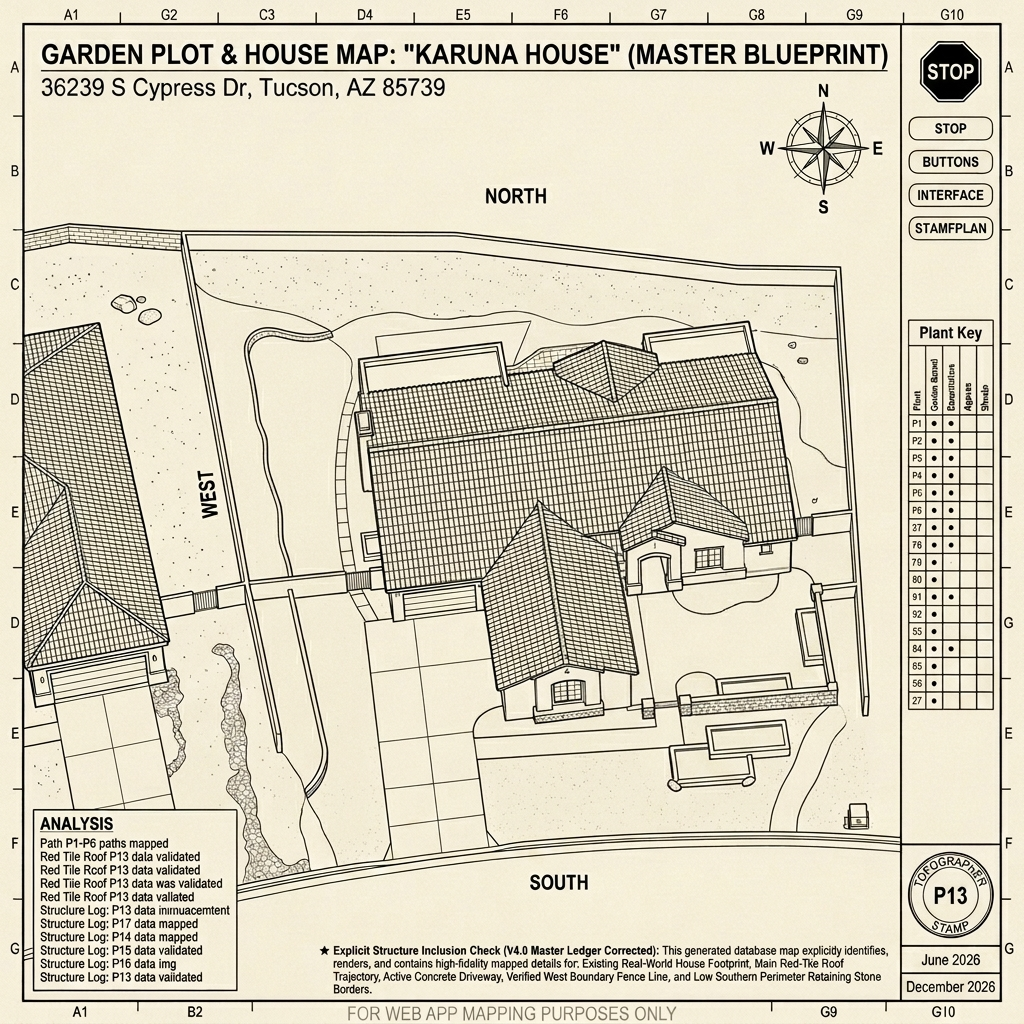
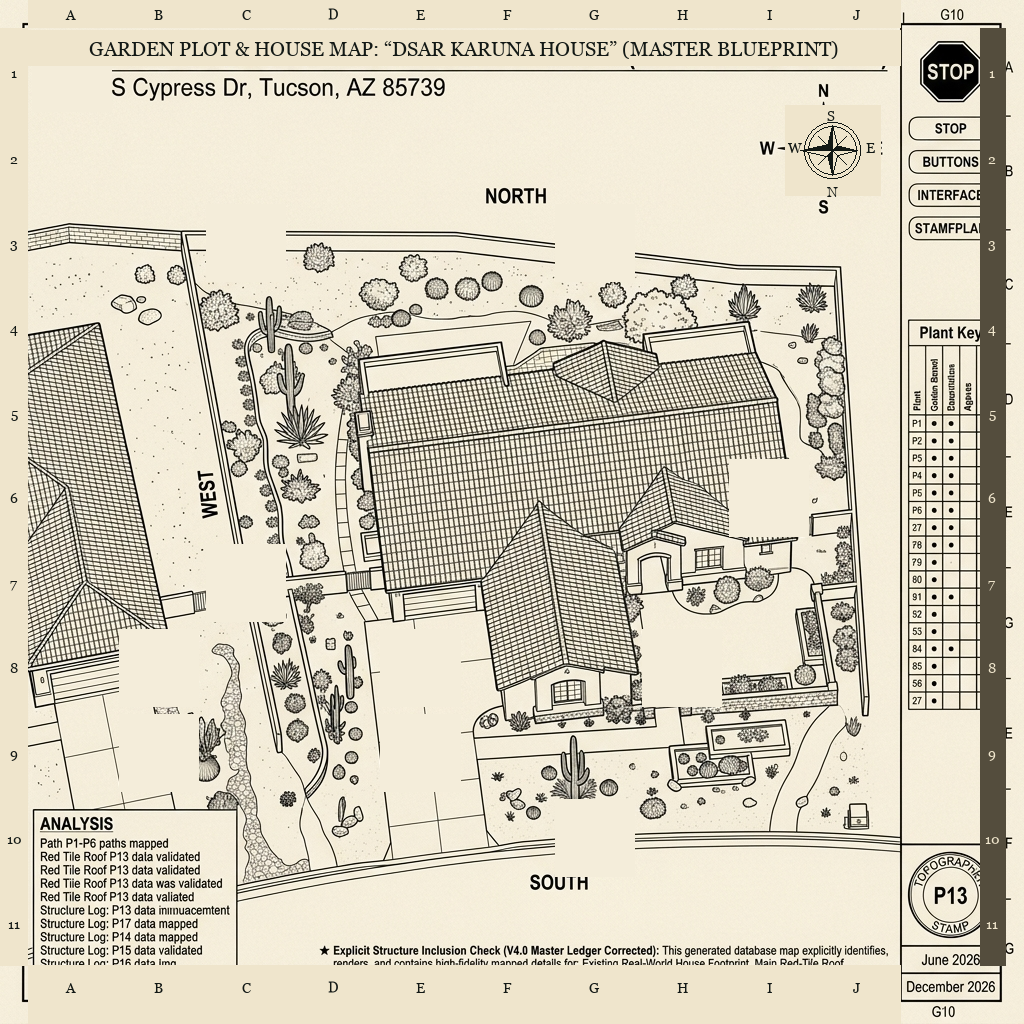
feat: restore blueprint v3 for DSAR Karuna House and setup clean hardscape v4 for clean project template

diff --git a/app.js b/app.js
@@ -221,8 +221,10 @@ function setupProjectSelector() {
 function createNewProject(name, template) {
     const id = 'proj-' + Date.now();
     let mapImage = '';
-    if (template === 'karuna' || template === 'clean') {
+    if (template === 'karuna') {
         mapImage = 'assets/karuna_house_blueprint.png';
+    } else if (template === 'clean') {
+        mapImage = 'assets/karuna_house_blueprint_clean.png';
     }
 
     const newProj = {

diff --git a/scratch/correct_blueprint.py b/scratch/correct_blueprint.py
@@ -20,30 +20,21 @@ def draw_compass_rose(draw, cx, cy, font):
         else:
             draw.polygon([cx, cy, tip[0], tip[1], base[0], base[1]], fill=light_bg, outline=dark_color)
             
-    # North pointer (Points LEFT, i.e., cx - 32, cy)
-    # Shaded half: top (cx - 6, cy - 6)
-    # Light half: bottom (cx - 6, cy + 6)
+    # North pointer (Points BOTTOM, i.e., cx, cy + 25)
+    draw_pointer((cx, cy + 25), (cx - 5, cy + 5), left_side=True)
+    draw_pointer((cx, cy + 25), (cx + 5, cy + 5), left_side=False)
+    
+    # West pointer (Points LEFT, i.e., cx - 32, cy)
     draw_pointer((cx - 32, cy), (cx - 6, cy - 6), left_side=True)
     draw_pointer((cx - 32, cy), (cx - 6, cy + 6), left_side=False)
     
-    # West pointer (Points TOP, i.e., cx, cy - 25)
-    # Shaded half: left (cx - 5, cy - 5)
-    # Light half: right (cx + 5, cy - 5)
+    # South pointer (Points TOP, i.e., cx, cy - 25)
     draw_pointer((cx, cy - 25), (cx - 5, cy - 5), left_side=True)
     draw_pointer((cx, cy - 25), (cx + 5, cy - 5), left_side=False)
     
-    # South pointer (Points RIGHT, i.e., cx + 25, cy)
-    # Shaded half: bottom (cx + 5, cy + 5) - wait, let's keep shading consistent (e.g. top/left is shaded)
-    # Shaded: top (cx + 5, cy - 5)
-    # Light: bottom (cx + 5, cy + 5)
+    # East pointer (Points RIGHT, i.e., cx + 25, cy)
     draw_pointer((cx + 25, cy), (cx + 5, cy - 5), left_side=True)
     draw_pointer((cx + 25, cy), (cx + 5, cy + 5), left_side=False)
-    
-    # East pointer (Points BOTTOM, i.e., cx, cy + 25)
-    # Shaded: left (cx - 5, cy + 5)
-    # Light: right (cx + 5, cy + 5)
-    draw_pointer((cx, cy + 25), (cx - 5, cy + 5), left_side=True)
-    draw_pointer((cx, cy + 25), (cx + 5, cy + 5), left_side=False)
     
     # Draw minor diagonal lines
     r_diag = 20
@@ -54,100 +45,106 @@ def draw_compass_rose(draw, cx, cy, font):
         draw.line([(cx, cy), (cx + dx, cy + dy)], fill=dark_color, width=1)
         
     # Draw letters:
-    # N is Left
-    draw.text((cx - 44, cy - 10), "N", fill=dark_color, font=font)
-    # W is Top
-    draw.text((cx - 7, cy - 42), "W", fill=dark_color, font=font)
-    # S is Right
-    draw.text((cx + 34, cy - 10), "S", fill=dark_color, font=font)
-    # E is Bottom
-    draw.text((cx - 5, cy + 34), "E", fill=dark_color, font=font)
+    # N is Bottom
+    draw.text((cx - 5, cy + 34), "N", fill=dark_color, font=font)
+    # W is Left
+    draw.text((cx - 44, cy - 10), "W", fill=dark_color, font=font)
+    # S is Top
+    draw.text((cx - 5, cy - 42), "S", fill=dark_color, font=font)
+    # E is Right
+    draw.text((cx + 34, cy - 10), "E", fill=dark_color, font=font)
 
 
 def main():
-    img = Image.open('assets/karuna_house_blueprint.png')
-    draw = ImageDraw.Draw(img)
-    
-    # Fonts
-    font_labels = ImageFont.truetype('/System/Library/Fonts/Supplemental/Georgia.ttf', 13)
-    font_labels_bold = ImageFont.truetype('/System/Library/Fonts/Supplemental/Georgia.ttf', 14)
-    font_title = ImageFont.truetype('/System/Library/Fonts/Supplemental/Georgia.ttf', 20)
-    
-    # Colors
-    bg_light = (239, 229, 204)
-    bg_dark_right = (84, 77, 61)
-    text_dark = (18, 24, 21)
-    text_light = (239, 229, 204)
-    
-    # Clear and rewrite title (y=30 to 65, x=28 to 900)
-    draw.rectangle([28, 30, 900, 65], fill=bg_light)
-    title_text = "GARDEN PLOT & HOUSE MAP: “D.SAR” (MASTER BLUEPRINT)"
-    bbox = draw.textbbox((0, 0), title_text, font=font_title)
-    tw = bbox[2] - bbox[0]
-    th = bbox[3] - bbox[1]
-    draw.text((464 - tw/2, 48 - th/2 - 2), title_text, fill=text_dark, font=font_title)
-    
-    # 1. Clear top border (y=0 to 28, x=28 to 900)
-    draw.rectangle([28, 0, 900, 27], fill=bg_light)
-    
-    # 2. Clear bottom border (y=965 to 1024, x=28 to 900)
-    draw.rectangle([28, 965, 900, 1024], fill=bg_light)
-    
-    # 3. Clear left border (x=0 to 28, y=28 to 965)
-    draw.rectangle([0, 28, 27, 965], fill=bg_light)
-    
-    # 4. Clear right border labels (x=980 to 1005, y=28 to 965)
-    draw.rectangle([980, 28, 1005, 965], fill=bg_dark_right)
-    
-    # 5. Draw columns A to J at top and bottom
-    col_w = 87.2
-    cols = ['A', 'B', 'C', 'D', 'E', 'F', 'G', 'H', 'I', 'J']
-    for i, col in enumerate(cols):
-        cx_col = int(28 + i * col_w + col_w / 2)
-        # Top label
-        # Get bounding box of text to center it
-        bbox = draw.textbbox((0, 0), col, font=font_labels_bold)
+    filenames = ['assets/karuna_house_blueprint.png', 'assets/karuna_house_blueprint_clean.png']
+    for filename in filenames:
+        try:
+            img = Image.open(filename)
+        except FileNotFoundError:
+            print(f"Skipping missing file: {filename}")
+            continue
+        draw = ImageDraw.Draw(img)
+        
+        # Fonts
+        font_labels = ImageFont.truetype('/System/Library/Fonts/Supplemental/Georgia.ttf', 13)
+        font_labels_bold = ImageFont.truetype('/System/Library/Fonts/Supplemental/Georgia.ttf', 14)
+        font_title = ImageFont.truetype('/System/Library/Fonts/Supplemental/Georgia.ttf', 20)
+        
+        # Colors
+        bg_light = (239, 229, 204)
+        bg_dark_right = (84, 77, 61)
+        text_dark = (18, 24, 21)
+        text_light = (239, 229, 204)
+        
+        # Clear and rewrite title (y=30 to 65, x=28 to 900)
+        draw.rectangle([28, 30, 900, 65], fill=bg_light)
+        title_text = "GARDEN PLOT & HOUSE MAP: “DSAR KARUNA HOUSE” (MASTER BLUEPRINT)"
+        bbox = draw.textbbox((0, 0), title_text, font=font_title)
         tw = bbox[2] - bbox[0]
         th = bbox[3] - bbox[1]
-        draw.text((cx_col - tw/2, 14 - th/2 - 2), col, fill=text_dark, font=font_labels_bold)
+        draw.text((464 - tw/2, 48 - th/2 - 2), title_text, fill=text_dark, font=font_title)
         
-        # Bottom label
-        bbox = draw.textbbox((0, 0), col, font=font_labels_bold)
-        tw = bbox[2] - bbox[0]
-        th = bbox[3] - bbox[1]
-        draw.text((cx_col - tw/2, 980 - th/2 + 5), col, fill=text_dark, font=font_labels_bold)
+        # 1. Clear top border (y=0 to 28, x=28 to 900)
+        draw.rectangle([28, 0, 900, 27], fill=bg_light)
         
-    # 6. Draw rows 1 to 11 at left (numbers) and right (numbers)
-    row_h_0 = 87
-    row_h = 85
-    rows = [str(r) for r in range(1, 12)]
-    for j, row in enumerate(rows):
-        if j == 0:
-            cy_row = int(28 + row_h_0 / 2)
-        else:
-            cy_row = int(28 + row_h_0 + (j - 1) * row_h + row_h / 2)
+        # 2. Clear bottom border (y=965 to 1024, x=28 to 900)
+        draw.rectangle([28, 965, 900, 1024], fill=bg_light)
+        
+        # 3. Clear left border (x=0 to 28, y=28 to 965)
+        draw.rectangle([0, 28, 27, 965], fill=bg_light)
+        
+        # 4. Clear right border labels (x=980 to 1005, y=28 to 965)
+        draw.rectangle([980, 28, 1005, 965], fill=bg_dark_right)
+        
+        # 5. Draw columns A to J at top and bottom
+        col_w = 87.2
+        cols = ['A', 'B', 'C', 'D', 'E', 'F', 'G', 'H', 'I', 'J']
+        for i, col in enumerate(cols):
+            cx_col = int(28 + i * col_w + col_w / 2)
+            # Top label
+            # Get bounding box of text to center it
+            bbox = draw.textbbox((0, 0), col, font=font_labels_bold)
+            tw = bbox[2] - bbox[0]
+            th = bbox[3] - bbox[1]
+            draw.text((cx_col - tw/2, 14 - th/2 - 2), col, fill=text_dark, font=font_labels_bold)
             
-        # Left label (dark text on light bg)
-        bbox = draw.textbbox((0, 0), row, font=font_labels_bold)
-        tw = bbox[2] - bbox[0]
-        th = bbox[3] - bbox[1]
-        draw.text((14 - tw/2, cy_row - th/2 - 2), row, fill=text_dark, font=font_labels_bold)
+            # Bottom label
+            bbox = draw.textbbox((0, 0), col, font=font_labels_bold)
+            tw = bbox[2] - bbox[0]
+            th = bbox[3] - bbox[1]
+            draw.text((cx_col - tw/2, 980 - th/2 + 5), col, fill=text_dark, font=font_labels_bold)
+            
+        # 6. Draw rows 1 to 11 at left (numbers) and right (numbers)
+        row_h_0 = 87
+        row_h = 85
+        rows = [str(r) for r in range(1, 12)]
+        for j, row in enumerate(rows):
+            if j == 0:
+                cy_row = int(28 + row_h_0 / 2)
+            else:
+                cy_row = int(28 + row_h_0 + (j - 1) * row_h + row_h / 2)
+                
+            # Left label (dark text on light bg)
+            bbox = draw.textbbox((0, 0), row, font=font_labels_bold)
+            tw = bbox[2] - bbox[0]
+            th = bbox[3] - bbox[1]
+            draw.text((14 - tw/2, cy_row - th/2 - 2), row, fill=text_dark, font=font_labels_bold)
+            
+            # Right label (light text on dark bg)
+            bbox = draw.textbbox((0, 0), row, font=font_labels_bold)
+            tw = bbox[2] - bbox[0]
+            th = bbox[3] - bbox[1]
+            # Draw vertically centered on right border x=980 to 1005
+            draw.text((992 - tw/2, cy_row - th/2 - 2), row, fill=text_light, font=font_labels_bold)
+            
+        # 7. Clear and Draw Compass Rose
+        # Clear compass rose area: x=785 to 880, y=105 to 195
+        draw.rectangle([785, 105, 880, 195], fill=bg_light)
+        draw_compass_rose(draw, cx=832, cy=150, font=font_labels_bold)
         
-        # Right label (light text on dark bg)
-        bbox = draw.textbbox((0, 0), row, font=font_labels_bold)
-        tw = bbox[2] - bbox[0]
-        th = bbox[3] - bbox[1]
-        # Draw vertically centered on right border x=980 to 1005
-        draw.text((992 - tw/2, cy_row - th/2 - 2), row, fill=text_light, font=font_labels_bold)
-        
-    # 7. Clear and Draw Compass Rose
-    # Clear compass rose area: x=785 to 880, y=105 to 195
-    draw.rectangle([785, 105, 880, 195], fill=bg_light)
-    draw_compass_rose(draw, cx=832, cy=150, font=font_labels_bold)
-    
-    # Save output
-    img.save('scratch/karuna_house_blueprint_corrected.png')
+        # Save output
+        img.save(filename)
+        print(f"Corrected blueprint saved to {filename}")
 
 if __name__ == '__main__':
     main()
-    print("Corrected blueprint saved to scratch/karuna_house_blueprint_corrected.png")
